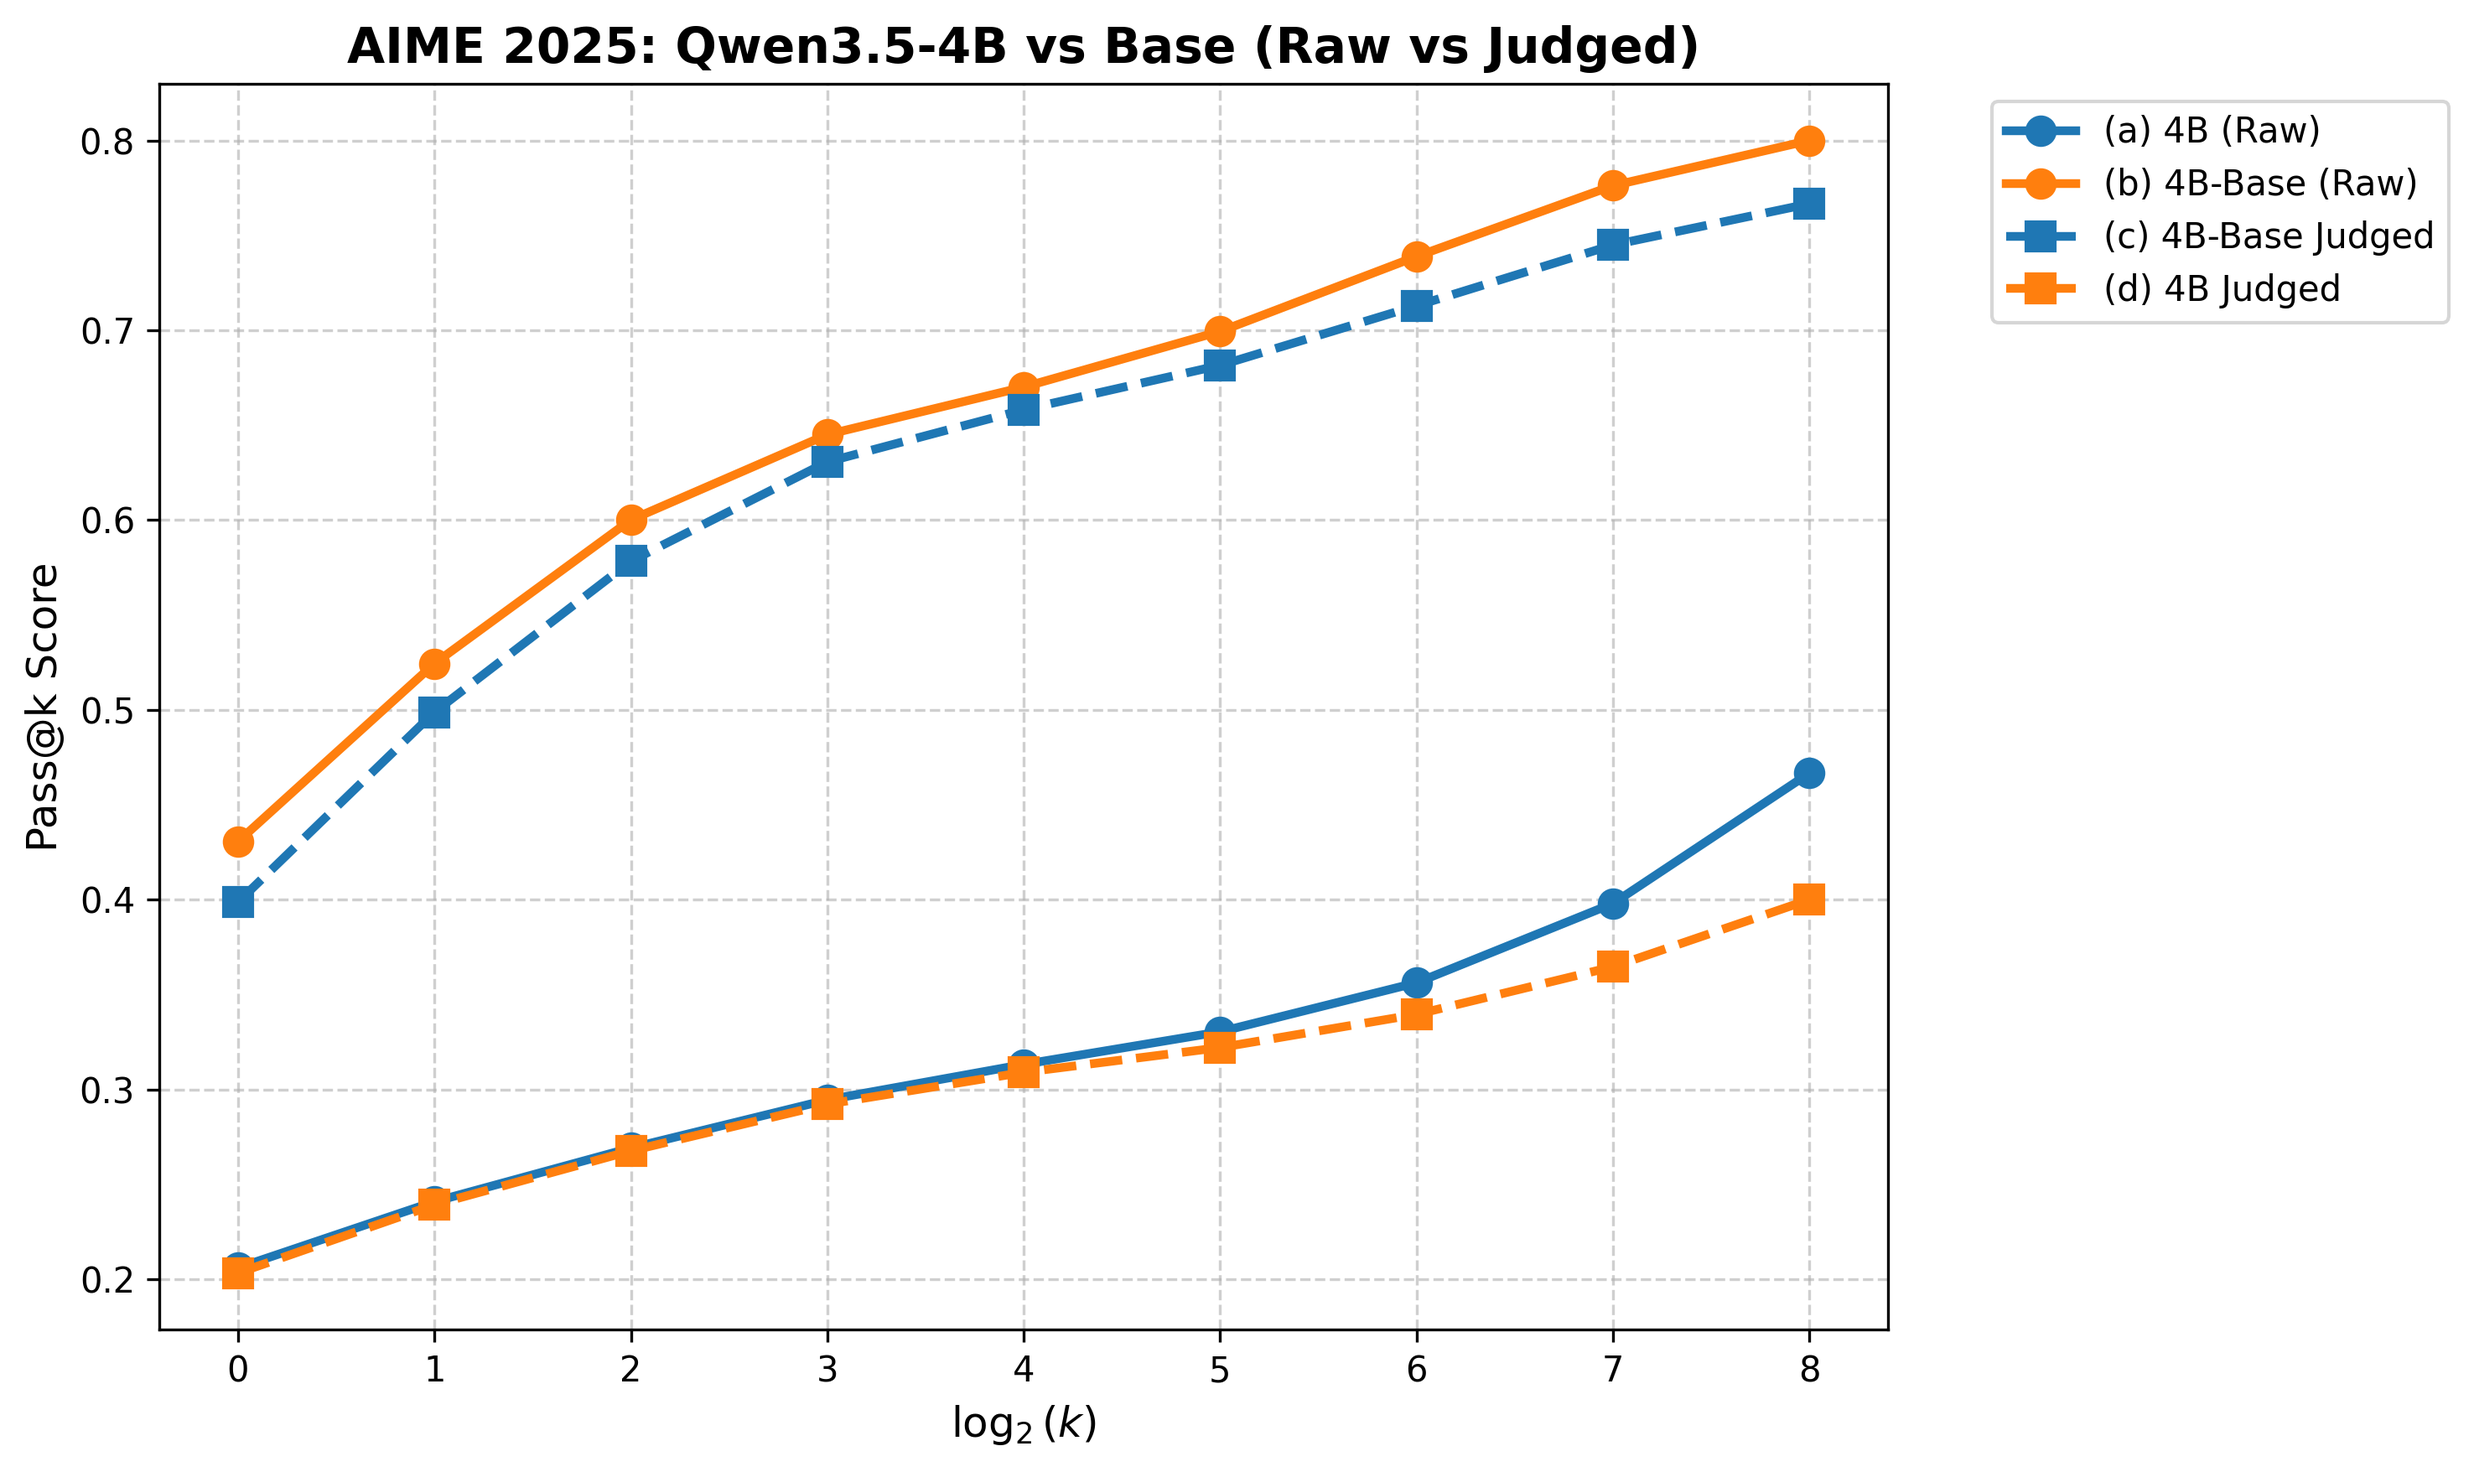
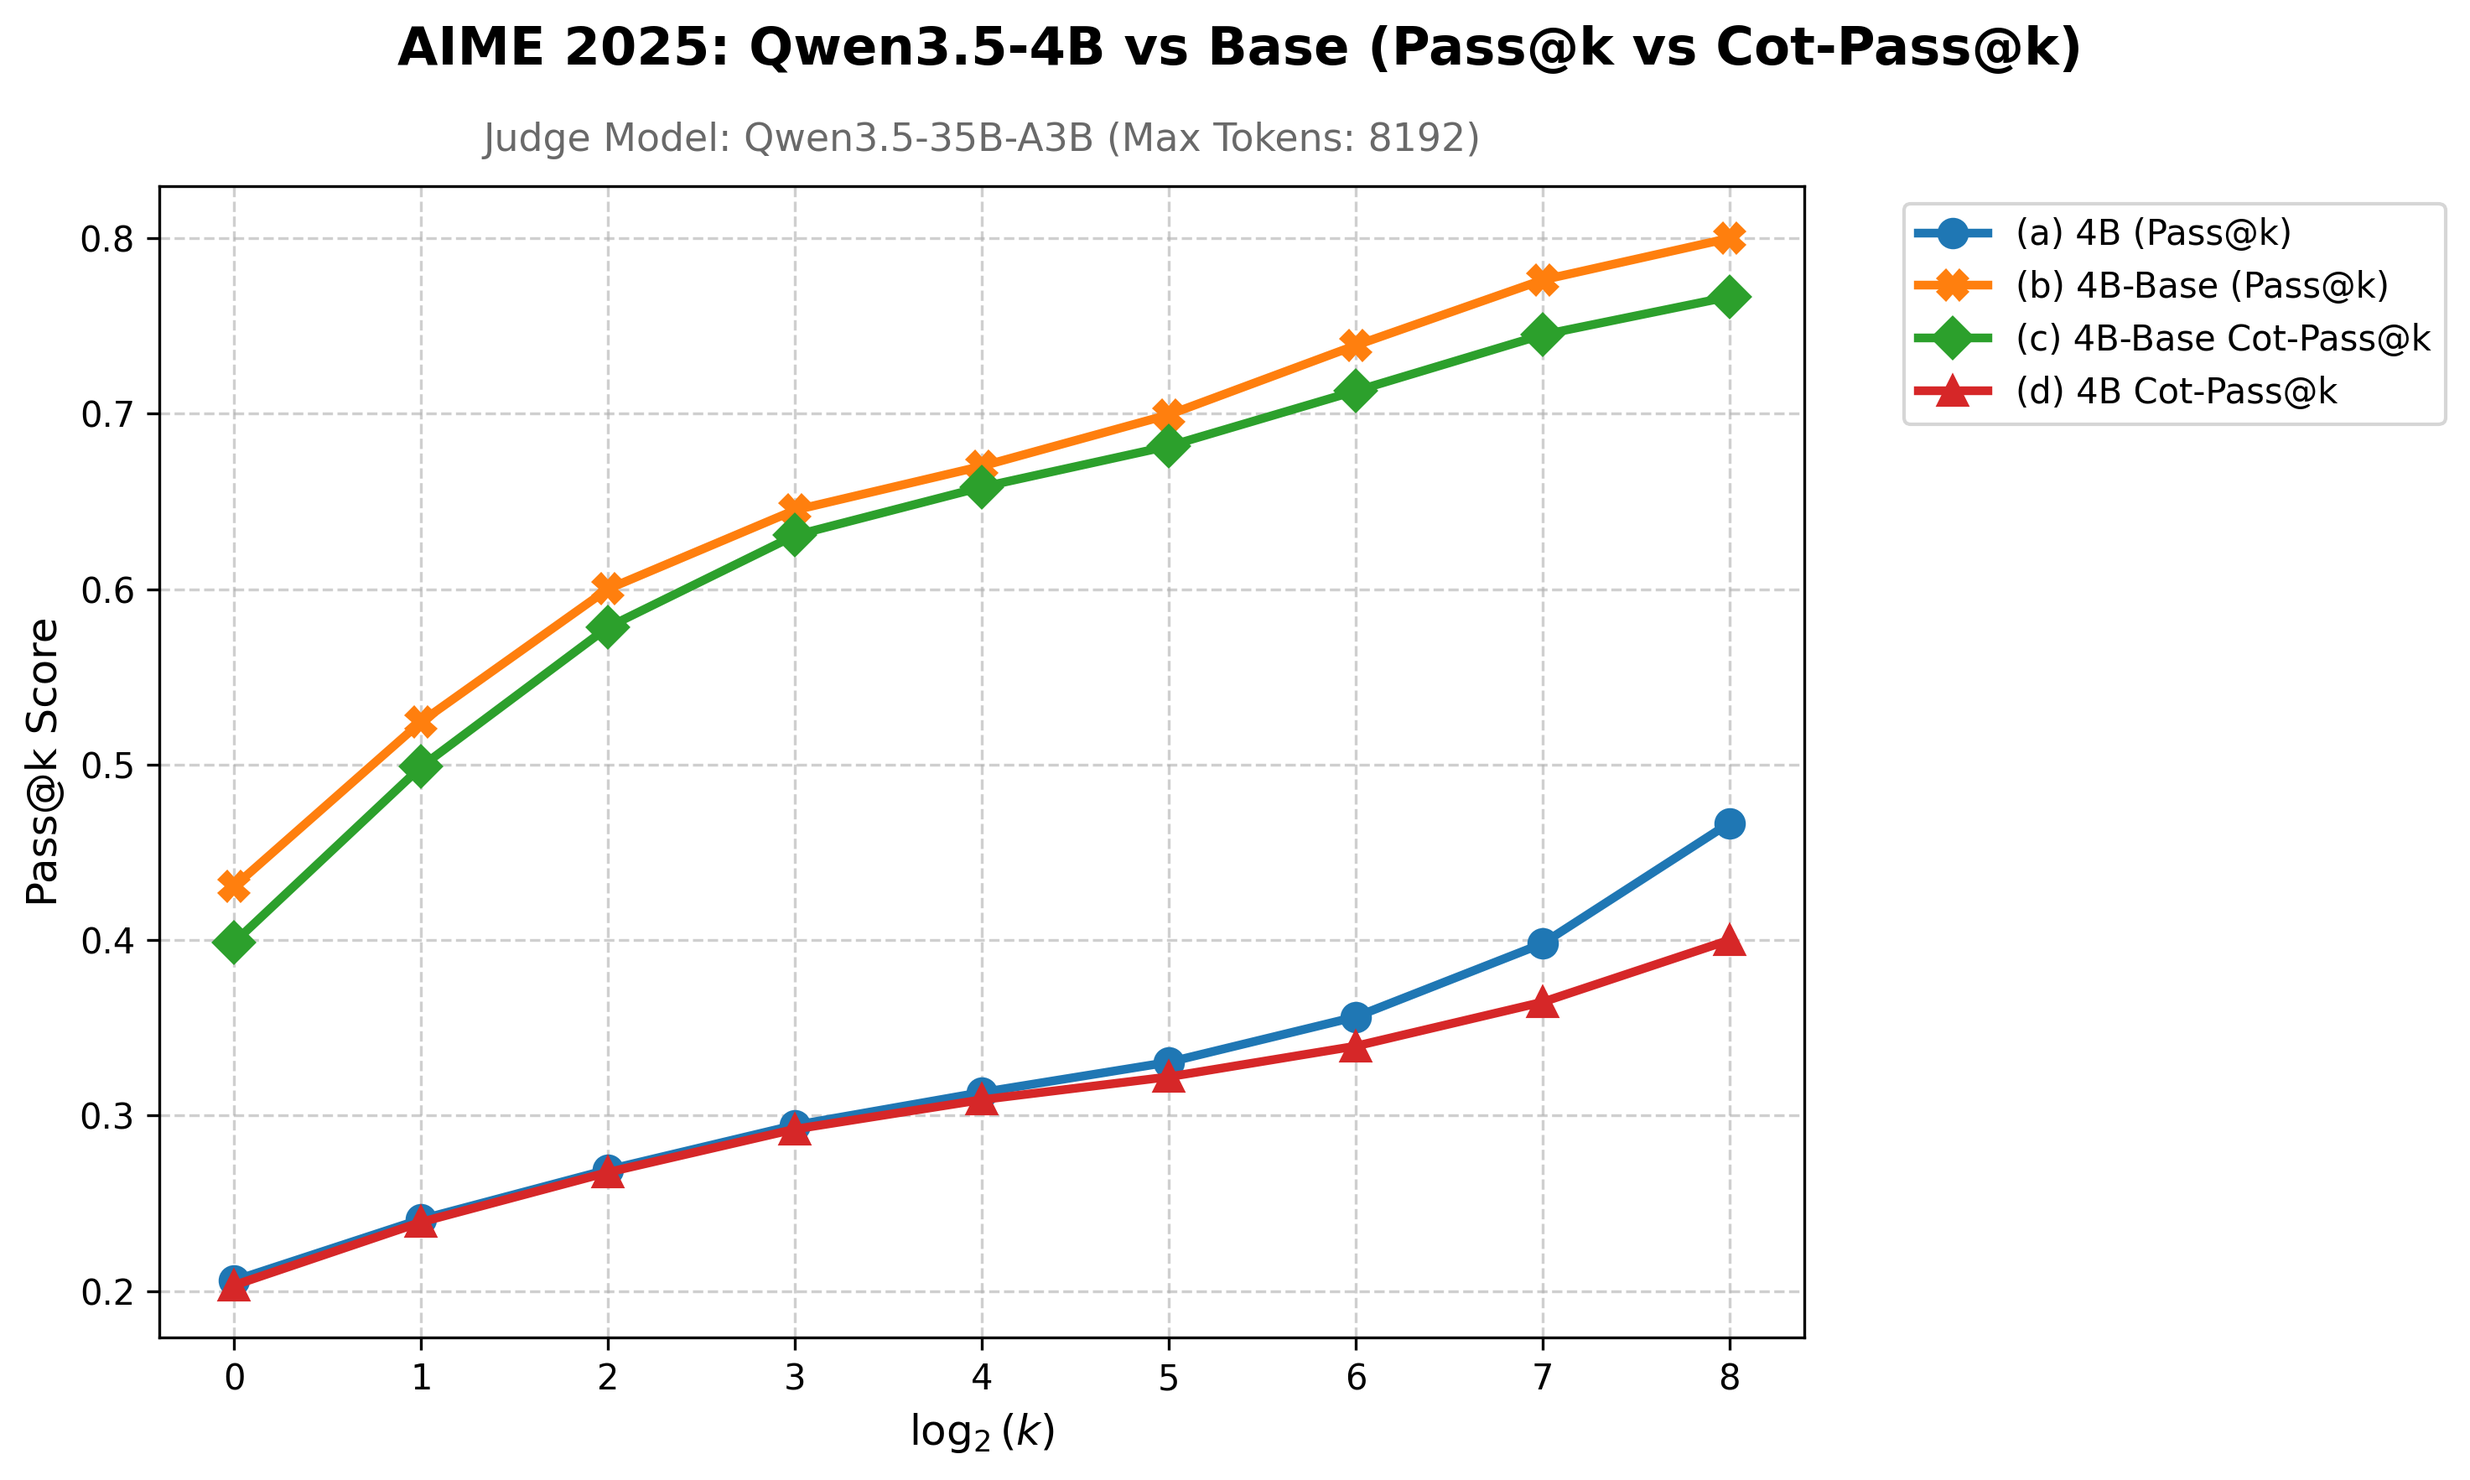
cot pipelina failes and doesnt create logs

diff --git a/scripts/utils/plot_custom_group.py b/scripts/utils/plot_custom_group.py
@@ -23,6 +23,7 @@ def main():
     parser.add_argument("--linestyles", nargs='+', required=True, help="Liste halinde cizgi stilleri (solid/dashed)")
     parser.add_argument("--markers", nargs='+', required=True, help="Liste halinde marker stilleri")
     parser.add_argument("--title", type=str, required=True, help="Grafik basligi")
+    parser.add_argument("--subtitle", type=str, default="", help="Grafik alt basligi (Opsiyonel)")
     parser.add_argument("--out", type=str, required=True, help="Kaydedilecek gorselin yolu")
     args = parser.parse_args()
 
@@ -42,7 +43,6 @@ def main():
         k_vals = sorted(pass_k.keys())
         log2_k_vals = [int(math.log2(k)) for k in k_vals]
         
-        # solid/dashed metnini matplotlib sembolune ceviriyoruz
         ls = style_map.get(args.linestyles[i], "-")
         
         plt.plot(log2_k_vals, [pass_k[k] for k in k_vals], 
@@ -57,7 +57,13 @@ def main():
         plt.close()
         return
 
-    plt.title(args.title, fontweight="bold", fontsize=14)
+    # EĞER SUBTITLE VERİLDİYSE ANA BAŞLIK ÜSTE, ALT BAŞLIK ALTA YAZILIR
+    if args.subtitle:
+        plt.suptitle(args.title, fontweight="bold", fontsize=15, y=0.98)
+        plt.title(args.subtitle, fontsize=11, color="dimgray", pad=10)
+    else:
+        plt.title(args.title, fontweight="bold", fontsize=14)
+
     plt.xlabel(r"$\log_2(k)$", fontsize=12)
     plt.ylabel("Pass@k Score", fontsize=12)
     plt.gca().xaxis.set_major_locator(plt.MaxNLocator(integer=True))
